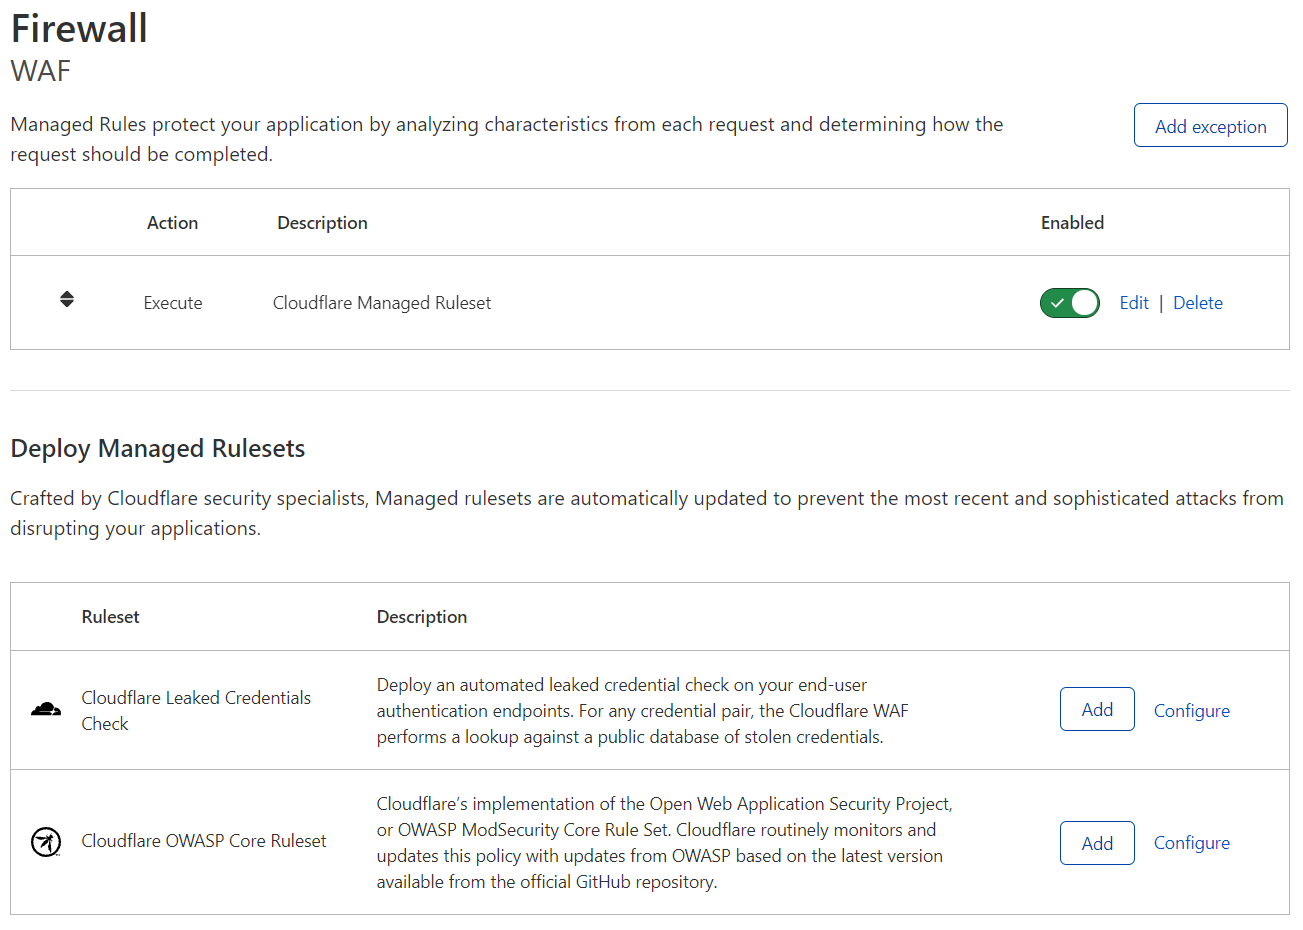
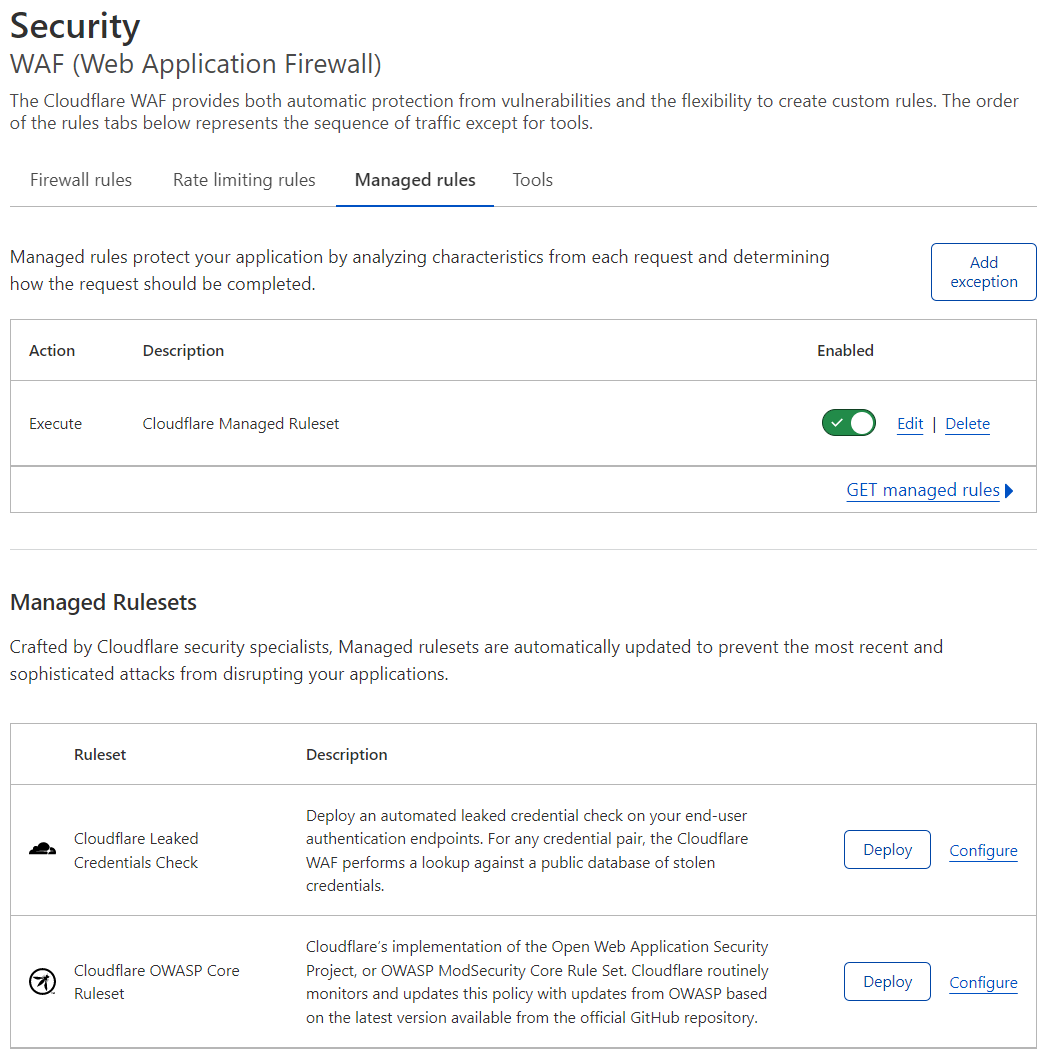
[WAF] Update Managed Ruleset deployment instructions (#5709)

diff --git a/content/waf/managed-rulesets/deploy-zone-dashboard.md b/content/waf/managed-rulesets/deploy-zone-dashboard.md
@@ -14,9 +14,11 @@ You can enable and configure Managed Rulesets for a zone in **Security** > **WAF
 
 ## Deploy a Managed Ruleset
 
-Under **Managed Rulesets**, select **Add** next to a Managed Ruleset to deploy that Managed Ruleset for the current zone.
+To deploy a Managed Ruleset with the default configuration, under **Managed Rulesets** select **Deploy** next to a Managed Ruleset. This operation will deploy the Managed Ruleset for the current zone.
 
-When you deploy a Managed Ruleset, the WAF adds an _Execute_ rule, displayed under **Managed rules**, that deploys the Managed Ruleset.
+To configure a ruleset before deploying it, select **Configure** instead of **Deploy** and define the ruleset configuration. For more information on the available settings, refer to [Configure a Managed Ruleset](#configure-a-managed-ruleset).
+
+When you deploy a Managed Ruleset, the WAF adds an _Execute_ rule, displayed in **Managed rules**, that deploys the Managed Ruleset.
 
 ## Enable or disable a Managed Ruleset
 
@@ -26,8 +28,9 @@ Select the **Enabled** toggle on the right of a Managed Ruleset to enable or dis
 
 Configure a Managed Ruleset to:
 
-- Define specific field values for one or more rules (for example, configure a rule with an action different from the action configured by Cloudflare)
-- Disable one or more rules
+- Define specific field values for one or more rules (for example, configure a rule with an action different from the action configured by Cloudflare).
+- Disable one or more rules.
+- Specify a custom filter expression to apply the rules in the ruleset to a subset of incoming requests.
 
 To skip one or more rules or WAF Managed Rulesets, [add a WAF exception](/waf/managed-rulesets/waf-exceptions/).
 
@@ -53,7 +56,9 @@ To configure rule field values for all the rules in a Managed Ruleset:
 
     ![The Configure Managed Ruleset page displaying the available options to override all the rules in the ruleset. In the displayed Managed Ruleset you can override the ruleset action.](/waf/static/waf-configure-ruleset.png)
 
-5. Select **Save**.
+5. (Optional) To apply the rules in the ruleset to a subset of incoming requests instead of all requests, [set the scope using a custom filter expression](#specify-a-custom-expression-for-the-ruleset).
+
+6. Select **Save**.
 
 ### View the rules of a Managed Ruleset
 
@@ -89,11 +94,7 @@ Do the following:
 
     ![The Browse rules page displaying the list of rules in the Cloudflare Managed Ruleset. In this interface you can override the behavior of specific rules.](/waf/static/waf-browse-rules.png)
 
-4. Select **Next**.
-
-    The Configure Managed Ruleset interface displays, listing the configuration you just defined.
-
-5. Select **Save**.
+4. Select **Next**, and then select **Save**.
 
 ### Configure rules in bulk in a Managed Ruleset
 
@@ -115,14 +116,27 @@ Do the following:
 
 4. Select **Next**.
 
-    {{<Aside type="note" header="Note">}}
+5. If you selected a tag, a dialog appears asking you if any new rules with the selected tag should be configured with the field values you selected.
 
-If you selected a tag, you get a dialog asking you if any new rules with the selected tag should be configured with the field values you selected.
+    * Select **Do not apply to new rules** to apply your configurations to the selected rules only.
+    * Select **Apply to new rules** if you want to apply your configurations to any new rules with the select tag.
 
-Select **Do not apply to new rules** to apply your configurations to the selected rules only.
+6. Select **Save**.
 
-Select **Apply to new rules** if you want to apply your configurations to any new rules with the select tag.
+### Specify a custom expression for the ruleset
 
-    {{</Aside>}}
+To apply the rules in the ruleset to a subset of incoming requests, specify a custom filter expression for the rule that executes the Managed Ruleset.
 
-5. Select **Save**.
+1. Log in to the [Cloudflare dashboard](https://dash.cloudflare.com/), and select your account and website.
+
+2. Go to **Security** > **WAF** > **Managed rules**.
+
+3. Next to the _Execute_ rule that deploys the Managed Ruleset, select **Edit**.
+
+4. Select **Edit filter**.
+
+5. Under **Set Scope**, select **Custom filter expression**.
+
+6. Under **When incoming requests match**, define the scope for all the rules in the ruleset using a custom filter expression. Use the Expression Builder or the Expression Editor for defining the expression. For more information, refer to [Edit rule expressions](/firewall/cf-dashboard/edit-expressions/).
+
+7. Select **Next**, and then select **Save**.

diff --git a/content/waf/managed-rulesets/deploy-api.md b/content/waf/managed-rulesets/deploy-api.md
@@ -16,11 +16,7 @@ Other Managed Rulesets, like DDoS Managed Rulesets, must be deployed to a differ
 
 You can define overrides to customize the behavior of the rules included in a Managed Ruleset.
 
-**Note:** There are a few requirements when deploying WAF Managed Rulesets to the `http_request_firewall_managed` phase at the **zone** level:
-
-- The zone-level phase can only have two `execute` rules deploying Managed Rulesets: one rule for deploying the OWASP Managed Ruleset and another rule for deploying the Cloudflare Managed Ruleset.
-
-- You must set the `expression` field to `true` in these two rules, which means that they apply to all zone requests.
+**Note:** The zone-level `http_request_firewall_managed` phase can have at most three `execute` rules deploying Managed Rulesets, one for each available Managed Ruleset.
 
 To learn more about deploying Managed Rulesets and configuring overrides using the Rulesets API, refer to [Work with Managed Rulesets](/ruleset-engine/managed-rulesets/).
 
